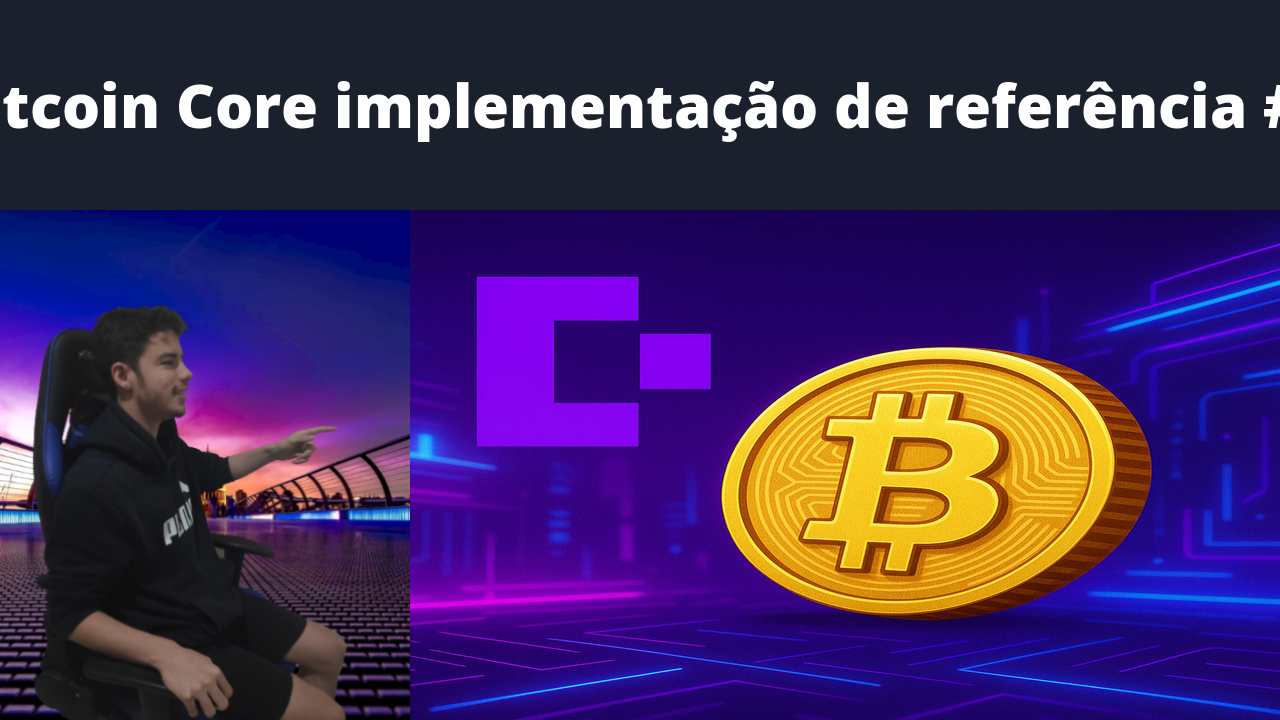
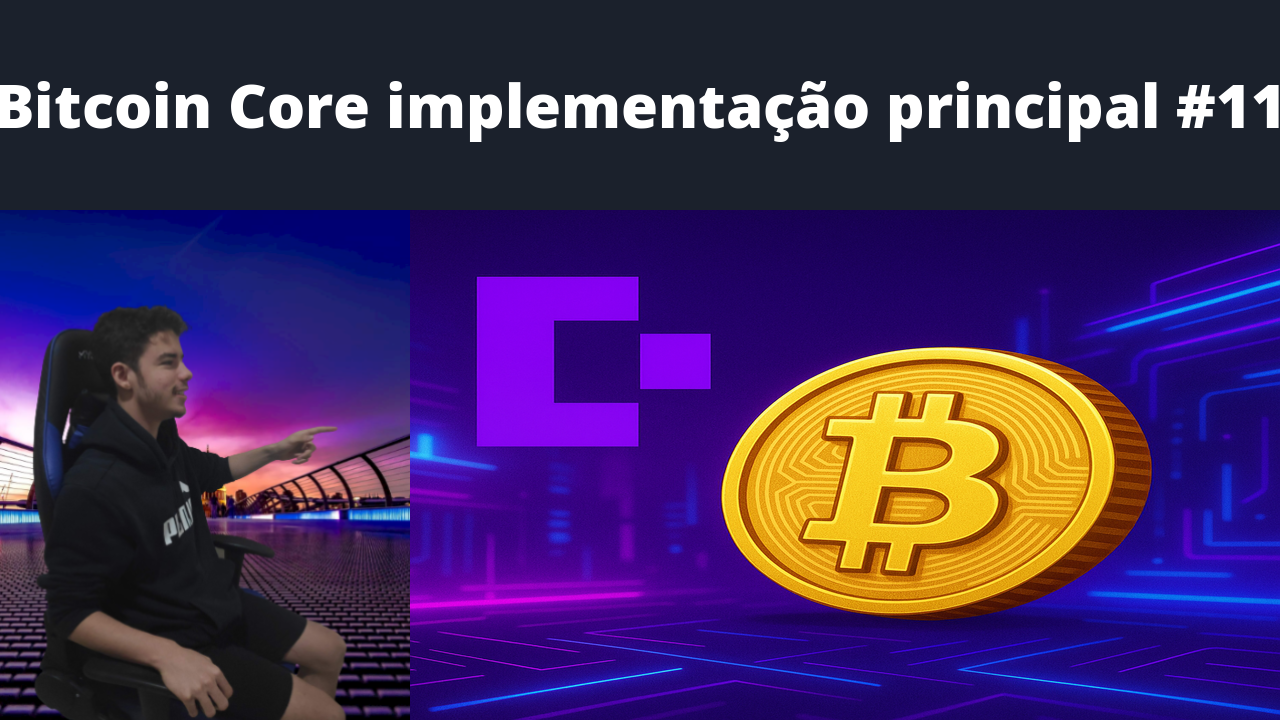
chore: add title docs: add last two custom titles

Changed region(s): [[0.0, 0.0917, 1.0, 0.2139]]

diff --git a/out/titles/Mastering Bitcoin.md b/out/titles/Mastering Bitcoin.md
@@ -1,6 +1,6 @@
 ===VIDEOSEARCH===
 https://youtube.googleapis.com/youtube/v3/search?part=snippet&forMine=true&maxResults=50&order=date&q=Mastering%20Bitcoin&type=video&pageToken=
-{ "kind": "youtube#searchListResponse", "etag": "SmARg9TOAgZzTfXPxly1naHR2_I", "pageInfo": { "totalResults": 11, "resultsPerPage": 50 }, "items": [ { "kind": "youtube#searchResult", "etag": "CKnAmYosQyrPlKAf-3r2torfKd0", "id": { "kind": "youtube#video", "videoId": "P7Z4iXNiw8Q" }, "snippet": { "publishedAt": "2025-06-07T23:26:08Z", "channelId": "UCgZB7eGBo6sKBwRfSzCQoJg", "title": "Bitcoin Core implementação de referência Mastering Bitcoin 11", "description": "", "thumbnails": { "default": { "url": "https://i.ytimg.com/vi/P7Z4iXNiw8Q/default.jpg", "width": 120, "height": 90 }, "medium": { "url": "https://i.ytimg.com/vi/P7Z4iXNiw8Q/mqdefault.jpg", "width": 320, "height": 180 }, "high": { "url": "https://i.ytimg.com/vi/P7Z4iXNiw8Q/hqdefault.jpg", "width": 480, "height": 360 }, "standard": { "url": "https://i.ytimg.com/vi/P7Z4iXNiw8Q/sddefault.jpg", "width": 640, "height": 480 }, "maxres": { "url": "https://i.ytimg.com/vi/P7Z4iXNiw8Q/maxresdefault.jpg", "width": 1280, "height": 720 } }, "channelTitle": "Juan Colchete", "liveBroadcastContent": "none", "publishTime": "2025-06-07T23:26:08Z" } }, { "kind": "youtube#searchResult", "etag": "8-lTL4OBUusZ7RiUi7DzM-z62KY", "id": { "kind": "youtube#video", "videoId": "5KXJZ-K2YFI" }, "snippet": { "publishedAt": "2025-06-07T23:26:02Z", "channelId": "UCgZB7eGBo6sKBwRfSzCQoJg", "title": "Porque a estrutura de rede não é hierárquica Mastering Bitcoin 10", "description": "", "thumbnails": { "default": { "url": "https://i.ytimg.com/vi/5KXJZ-K2YFI/default.jpg", "width": 120, "height": 90 }, "medium": { "url": "https://i.ytimg.com/vi/5KXJZ-K2YFI/mqdefault.jpg", "width": 320, "height": 180 }, "high": { "url": "https://i.ytimg.com/vi/5KXJZ-K2YFI/hqdefault.jpg", "width": 480, "height": 360 }, "standard": { "url": "https://i.ytimg.com/vi/5KXJZ-K2YFI/sddefault.jpg", "width": 640, "height": 480 }, "maxres": { "url": "https://i.ytimg.com/vi/5KXJZ-K2YFI/maxresdefault.jpg", "width": 1280, "height": 720 } }, "channelTitle": "Juan Colchete", "liveBroadcastContent": "none", "publishTime": "2025-06-07T23:26:02Z" } }, { "kind": "youtube#searchResult", "etag": "DV9dnH8LuYoWc30lZHcTtclQITU", "id": { "kind": "youtube#video", "videoId": "wZa4vgP9BQo" }, "snippet": { "publishedAt": "2025-06-07T23:25:57Z", "channelId": "UCgZB7eGBo6sKBwRfSzCQoJg", "title": "O que são entradas e saidas Mastering Bitcoin 9", "description": "", "thumbnails": { "default": { "url": "https://i.ytimg.com/vi/wZa4vgP9BQo/default.jpg", "width": 120, "height": 90 }, "medium": { "url": "https://i.ytimg.com/vi/wZa4vgP9BQo/mqdefault.jpg", "width": 320, "height": 180 }, "high": { "url": "https://i.ytimg.com/vi/wZa4vgP9BQo/hqdefault.jpg", "width": 480, "height": 360 }, "standard": { "url": "https://i.ytimg.com/vi/wZa4vgP9BQo/sddefault.jpg", "width": 640, "height": 480 }, "maxres": { "url": "https://i.ytimg.com/vi/wZa4vgP9BQo/maxresdefault.jpg", "width": 1280, "height": 720 } }, "channelTitle": "Juan Colchete", "liveBroadcastContent": "none", "publishTime": "2025-06-07T23:25:57Z" } }, { "kind": "youtube#searchResult", "etag": "8EyCIKflMnv-u9UtyaECKcNGg4U", "id": { "kind": "youtube#video", "videoId": "LziW22FFQ20" }, "snippet": { "publishedAt": "2025-06-07T23:25:51Z", "channelId": "UCgZB7eGBo6sKBwRfSzCQoJg", "title": "Transações são cadeias de assinaturas digitais Mastering Bitcoin 8", "description": "", "thumbnails": { "default": { "url": "https://i.ytimg.com/vi/LziW22FFQ20/default.jpg", "width": 120, "height": 90 }, "medium": { "url": "https://i.ytimg.com/vi/LziW22FFQ20/mqdefault.jpg", "width": 320, "height": 180 }, "high": { "url": "https://i.ytimg.com/vi/LziW22FFQ20/hqdefault.jpg", "width": 480, "height": 360 }, "standard": { "url": "https://i.ytimg.com/vi/LziW22FFQ20/sddefault.jpg", "width": 640, "height": 480 }, "maxres": { "url": "https://i.ytimg.com/vi/LziW22FFQ20/maxresdefault.jpg", "width": 1280, "height": 720 } }, "channelTitle": "Juan Colchete", "liveBroadcastContent": "none", "publishTime": "2025-06-07T23:25:51Z" } }, { "kind": "youtube#searchResult", "etag": "o_1lWEKDAl5CLQRe_BwCovz1e40", "id": { "kind": "youtube#video", "videoId": "mgc4KJ8klUM" }, "snippet": { "publishedAt": "2025-06-07T23:25:42Z", "channelId": "UCgZB7eGBo6sKBwRfSzCQoJg", "title": "Prova de trabalho agulha no palheiro Mastering Bitcoin 7", "description": "", "thumbnails": { "default": { "url": "https://i.ytimg.com/vi/mgc4KJ8klUM/default.jpg", "width": 120, "height": 90 }, "medium": { "url": "https://i.ytimg.com/vi/mgc4KJ8klUM/mqdefault.jpg", "width": 320, "height": 180 }, "high": { "url": "https://i.ytimg.com/vi/mgc4KJ8klUM/hqdefault.jpg", "width": 480, "height": 360 }, "standard": { "url": "https://i.ytimg.com/vi/mgc4KJ8klUM/sddefault.jpg", "width": 640, "height": 480 }, "maxres": { "url": "https://i.ytimg.com/vi/mgc4KJ8klUM/maxresdefault.jpg", "width": 1280, "height": 720 } }, "channelTitle": "Juan Colchete", "liveBroadcastContent": "none", "publishTime": "2025-06-07T23:25:42Z" } }, { "kind": "youtube#searchResult", "etag": "ezS5CRo9pug31mROp4GDKKlEeII", "id": { "kind": "youtube#video", "videoId": "CA7iN-ebHMk" }, "snippet": { "publishedAt": "2025-06-07T20:57:01Z", "channelId": "UCgZB7eGBo6sKBwRfSzCQoJg", "title": "O que é gasto duplo e como o bitcoin resolve Mastering Bitcoin 6", "description": "", "thumbnails": { "default": { "url": "https://i.ytimg.com/vi/CA7iN-ebHMk/default.jpg", "width": 120, "height": 90 }, "medium": { "url": "https://i.ytimg.com/vi/CA7iN-ebHMk/mqdefault.jpg", "width": 320, "height": 180 }, "high": { "url": "https://i.ytimg.com/vi/CA7iN-ebHMk/hqdefault.jpg", "width": 480, "height": 360 }, "standard": { "url": "https://i.ytimg.com/vi/CA7iN-ebHMk/sddefault.jpg", "width": 640, "height": 480 }, "maxres": { "url": "https://i.ytimg.com/vi/CA7iN-ebHMk/maxresdefault.jpg", "width": 1280, "height": 720 } }, "channelTitle": "Juan Colchete", "liveBroadcastContent": "none", "publishTime": "2025-06-07T20:57:01Z" } }, { "kind": "youtube#searchResult", "etag": "GHJ2E-hIBF4X0q8IvaZ80u0fWlQ", "id": { "kind": "youtube#video", "videoId": "0aEdpuCC_uY" }, "snippet": { "publishedAt": "2025-05-03T21:10:24Z", "channelId": "UCgZB7eGBo6sKBwRfSzCQoJg", "title": "Transações reversíveis Mastering Bitcoin 3", "description": "", "thumbnails": { "default": { "url": "https://i.ytimg.com/vi/0aEdpuCC_uY/default.jpg", "width": 120, "height": 90 }, "medium": { "url": "https://i.ytimg.com/vi/0aEdpuCC_uY/mqdefault.jpg", "width": 320, "height": 180 }, "high": { "url": "https://i.ytimg.com/vi/0aEdpuCC_uY/hqdefault.jpg", "width": 480, "height": 360 }, "standard": { "url": "https://i.ytimg.com/vi/0aEdpuCC_uY/sddefault.jpg", "width": 640, "height": 480 }, "maxres": { "url": "https://i.ytimg.com/vi/0aEdpuCC_uY/maxresdefault.jpg", "width": 1280, "height": 720 } }, "channelTitle": "Juan Colchete", "liveBroadcastContent": "none", "publishTime": "2025-05-03T21:10:24Z" } }, { "kind": "youtube#searchResult", "etag": "NQDfTZDZAs-MMpaavxb3BRhLZho", "id": { "kind": "youtube#video", "videoId": "durjTh544jo" }, "snippet": { "publishedAt": "2025-05-03T21:10:09Z", "channelId": "UCgZB7eGBo6sKBwRfSzCQoJg", "title": "O que determina a taxa de inflação do Bitcoin Mastering Bitcoin 5", "description": "", "thumbnails": { "default": { "url": "https://i.ytimg.com/vi/durjTh544jo/default.jpg", "width": 120, "height": 90 }, "medium": { "url": "https://i.ytimg.com/vi/durjTh544jo/mqdefault.jpg", "width": 320, "height": 180 }, "high": { "url": "https://i.ytimg.com/vi/durjTh544jo/hqdefault.jpg", "width": 480, "height": 360 }, "standard": { "url": "https://i.ytimg.com/vi/durjTh544jo/sddefault.jpg", "width": 640, "height": 480 }, "maxres": { "url": "https://i.ytimg.com/vi/durjTh544jo/maxresdefault.jpg", "width": 1280, "height": 720 } }, "channelTitle": "Juan Colchete", "liveBroadcastContent": "none", "publishTime": "2025-05-03T21:10:09Z" } }, { "kind": "youtube#searchResult", "etag": "Qg1vYp_FgAVtvimn916lJ_Wpzno", "id": { "kind": "youtube#video", "videoId": "mn3tkvu8g0s" }, "snippet": { "publishedAt": "2025-05-03T21:09:52Z", "channelId": "UCgZB7eGBo6sKBwRfSzCQoJg", "title": "Porque a taxa de transação é necessária? Mastering Bitcoin 4", "description": "", "thumbnails": { "default": { "url": "https://i.ytimg.com/vi/mn3tkvu8g0s/default.jpg", "width": 120, "height": 90 }, "medium": { "url": "https://i.ytimg.com/vi/mn3tkvu8g0s/mqdefault.jpg", "width": 320, "height": 180 }, "high": { "url": "https://i.ytimg.com/vi/mn3tkvu8g0s/hqdefault.jpg", "width": 480, "height": 360 }, "standard": { "url": "https://i.ytimg.com/vi/mn3tkvu8g0s/sddefault.jpg", "width": 640, "height": 480 }, "maxres": { "url": "https://i.ytimg.com/vi/mn3tkvu8g0s/maxresdefault.jpg", "width": 1280, "height": 720 } }, "channelTitle": "Juan Colchete", "liveBroadcastContent": "none", "publishTime": "2025-05-03T21:09:52Z" } }, { "kind": "youtube#searchResult", "etag": "wkb4Ac3zapWgkfC3JqW_CMD3M0w", "id": { "kind": "youtube#video", "videoId": "Hujt0gZ1c68" }, "snippet": { "publishedAt": "2025-05-03T21:09:39Z", "channelId": "UCgZB7eGBo6sKBwRfSzCQoJg", "title": "O que é UTXO ? Mastering Bitcoin 2", "description": "", "thumbnails": { "default": { "url": "https://i.ytimg.com/vi/Hujt0gZ1c68/default.jpg", "width": 120, "height": 90 }, "medium": { "url": "https://i.ytimg.com/vi/Hujt0gZ1c68/mqdefault.jpg", "width": 320, "height": 180 }, "high": { "url": "https://i.ytimg.com/vi/Hujt0gZ1c68/hqdefault.jpg", "width": 480, "height": 360 }, "standard": { "url": "https://i.ytimg.com/vi/Hujt0gZ1c68/sddefault.jpg", "width": 640, "height": 480 }, "maxres": { "url": "https://i.ytimg.com/vi/Hujt0gZ1c68/maxresdefault.jpg", "width": 1280, "height": 720 } }, "channelTitle": "Juan Colchete", "liveBroadcastContent": "none", "publishTime": "2025-05-03T21:09:39Z" } }, { "kind": "youtube#searchResult", "etag": "s0F28X8jib5WyWrcPFOAuQj_ABo", "id": { "kind": "youtube#video", "videoId": "qDoZElkVCCY" }, "snippet": { "publishedAt": "2025-05-03T21:09:17Z", "channelId": "UCgZB7eGBo6sKBwRfSzCQoJg", "title": "Como bitcoin resolve o problema das moedas digitais Mastering Bitcoin 1", "description": "", "thumbnails": { "default": { "url": "https://i.ytimg.com/vi/qDoZElkVCCY/default.jpg", "width": 120, "height": 90 }, "medium": { "url": "https://i.ytimg.com/vi/qDoZElkVCCY/mqdefault.jpg", "width": 320, "height": 180 }, "high": { "url": "https://i.ytimg.com/vi/qDoZElkVCCY/hqdefault.jpg", "width": 480, "height": 360 }, "standard": { "url": "https://i.ytimg.com/vi/qDoZElkVCCY/sddefault.jpg", "width": 640, "height": 480 }, "maxres": { "url": "https://i.ytimg.com/vi/qDoZElkVCCY/maxresdefault.jpg", "width": 1280, "height": 720 } }, "channelTitle": "Juan Colchete", "liveBroadcastContent": "none", "publishTime": "2025-05-03T21:09:17Z" } } ] }
+{ "kind": "youtube#searchListResponse", "etag": "XbJqpDe0ZeU8Ed-XWAc2IsWij6o", "pageInfo": { "totalResults": 11, "resultsPerPage": 50 }, "items": [ { "kind": "youtube#searchResult", "etag": "Xa1eOYdicn-oIZnBDsZi2XQIlxE", "id": { "kind": "youtube#video", "videoId": "P7Z4iXNiw8Q" }, "snippet": { "publishedAt": "2025-06-07T23:26:08Z", "channelId": "UCgZB7eGBo6sKBwRfSzCQoJg", "title": "Bitcoin Core implementação de referência Mastering Bitcoin 11", "description": "", "thumbnails": { "default": { "url": "https://i.ytimg.com/vi/P7Z4iXNiw8Q/default.jpg", "width": 120, "height": 90 }, "medium": { "url": "https://i.ytimg.com/vi/P7Z4iXNiw8Q/mqdefault.jpg", "width": 320, "height": 180 }, "high": { "url": "https://i.ytimg.com/vi/P7Z4iXNiw8Q/hqdefault.jpg", "width": 480, "height": 360 }, "standard": { "url": "https://i.ytimg.com/vi/P7Z4iXNiw8Q/sddefault.jpg", "width": 640, "height": 480 }, "maxres": { "url": "https://i.ytimg.com/vi/P7Z4iXNiw8Q/maxresdefault.jpg", "width": 1280, "height": 720 } }, "channelTitle": "Juan Colchete", "liveBroadcastContent": "none", "publishTime": "2025-06-07T23:26:08Z" } }, { "kind": "youtube#searchResult", "etag": "RenK2MQkQBuHFQM-GmDGjPsdc88", "id": { "kind": "youtube#video", "videoId": "5KXJZ-K2YFI" }, "snippet": { "publishedAt": "2025-06-07T23:26:02Z", "channelId": "UCgZB7eGBo6sKBwRfSzCQoJg", "title": "Porque a estrutura de rede não é hierárquica Mastering Bitcoin 10", "description": "", "thumbnails": { "default": { "url": "https://i.ytimg.com/vi/5KXJZ-K2YFI/default.jpg", "width": 120, "height": 90 }, "medium": { "url": "https://i.ytimg.com/vi/5KXJZ-K2YFI/mqdefault.jpg", "width": 320, "height": 180 }, "high": { "url": "https://i.ytimg.com/vi/5KXJZ-K2YFI/hqdefault.jpg", "width": 480, "height": 360 }, "standard": { "url": "https://i.ytimg.com/vi/5KXJZ-K2YFI/sddefault.jpg", "width": 640, "height": 480 }, "maxres": { "url": "https://i.ytimg.com/vi/5KXJZ-K2YFI/maxresdefault.jpg", "width": 1280, "height": 720 } }, "channelTitle": "Juan Colchete", "liveBroadcastContent": "none", "publishTime": "2025-06-07T23:26:02Z" } }, { "kind": "youtube#searchResult", "etag": "DV9dnH8LuYoWc30lZHcTtclQITU", "id": { "kind": "youtube#video", "videoId": "wZa4vgP9BQo" }, "snippet": { "publishedAt": "2025-06-07T23:25:57Z", "channelId": "UCgZB7eGBo6sKBwRfSzCQoJg", "title": "O que são entradas e saidas Mastering Bitcoin 9", "description": "", "thumbnails": { "default": { "url": "https://i.ytimg.com/vi/wZa4vgP9BQo/default.jpg", "width": 120, "height": 90 }, "medium": { "url": "https://i.ytimg.com/vi/wZa4vgP9BQo/mqdefault.jpg", "width": 320, "height": 180 }, "high": { "url": "https://i.ytimg.com/vi/wZa4vgP9BQo/hqdefault.jpg", "width": 480, "height": 360 }, "standard": { "url": "https://i.ytimg.com/vi/wZa4vgP9BQo/sddefault.jpg", "width": 640, "height": 480 }, "maxres": { "url": "https://i.ytimg.com/vi/wZa4vgP9BQo/maxresdefault.jpg", "width": 1280, "height": 720 } }, "channelTitle": "Juan Colchete", "liveBroadcastContent": "none", "publishTime": "2025-06-07T23:25:57Z" } }, { "kind": "youtube#searchResult", "etag": "tSGEvolmT27JoPzX0US3msYcYwA", "id": { "kind": "youtube#video", "videoId": "LziW22FFQ20" }, "snippet": { "publishedAt": "2025-06-07T23:25:51Z", "channelId": "UCgZB7eGBo6sKBwRfSzCQoJg", "title": "Transações são cadeias de assinaturas digitais Mastering Bitcoin 8", "description": "", "thumbnails": { "default": { "url": "https://i.ytimg.com/vi/LziW22FFQ20/default.jpg", "width": 120, "height": 90 }, "medium": { "url": "https://i.ytimg.com/vi/LziW22FFQ20/mqdefault.jpg", "width": 320, "height": 180 }, "high": { "url": "https://i.ytimg.com/vi/LziW22FFQ20/hqdefault.jpg", "width": 480, "height": 360 }, "standard": { "url": "https://i.ytimg.com/vi/LziW22FFQ20/sddefault.jpg", "width": 640, "height": 480 }, "maxres": { "url": "https://i.ytimg.com/vi/LziW22FFQ20/maxresdefault.jpg", "width": 1280, "height": 720 } }, "channelTitle": "Juan Colchete", "liveBroadcastContent": "none", "publishTime": "2025-06-07T23:25:51Z" } }, { "kind": "youtube#searchResult", "etag": "o_1lWEKDAl5CLQRe_BwCovz1e40", "id": { "kind": "youtube#video", "videoId": "mgc4KJ8klUM" }, "snippet": { "publishedAt": "2025-06-07T23:25:42Z", "channelId": "UCgZB7eGBo6sKBwRfSzCQoJg", "title": "Prova de trabalho agulha no palheiro Mastering Bitcoin 7", "description": "", "thumbnails": { "default": { "url": "https://i.ytimg.com/vi/mgc4KJ8klUM/default.jpg", "width": 120, "height": 90 }, "medium": { "url": "https://i.ytimg.com/vi/mgc4KJ8klUM/mqdefault.jpg", "width": 320, "height": 180 }, "high": { "url": "https://i.ytimg.com/vi/mgc4KJ8klUM/hqdefault.jpg", "width": 480, "height": 360 }, "standard": { "url": "https://i.ytimg.com/vi/mgc4KJ8klUM/sddefault.jpg", "width": 640, "height": 480 }, "maxres": { "url": "https://i.ytimg.com/vi/mgc4KJ8klUM/maxresdefault.jpg", "width": 1280, "height": 720 } }, "channelTitle": "Juan Colchete", "liveBroadcastContent": "none", "publishTime": "2025-06-07T23:25:42Z" } }, { "kind": "youtube#searchResult", "etag": "ezS5CRo9pug31mROp4GDKKlEeII", "id": { "kind": "youtube#video", "videoId": "CA7iN-ebHMk" }, "snippet": { "publishedAt": "2025-06-07T20:57:01Z", "channelId": "UCgZB7eGBo6sKBwRfSzCQoJg", "title": "O que é gasto duplo e como o bitcoin resolve Mastering Bitcoin 6", "description": "", "thumbnails": { "default": { "url": "https://i.ytimg.com/vi/CA7iN-ebHMk/default.jpg", "width": 120, "height": 90 }, "medium": { "url": "https://i.ytimg.com/vi/CA7iN-ebHMk/mqdefault.jpg", "width": 320, "height": 180 }, "high": { "url": "https://i.ytimg.com/vi/CA7iN-ebHMk/hqdefault.jpg", "width": 480, "height": 360 }, "standard": { "url": "https://i.ytimg.com/vi/CA7iN-ebHMk/sddefault.jpg", "width": 640, "height": 480 }, "maxres": { "url": "https://i.ytimg.com/vi/CA7iN-ebHMk/maxresdefault.jpg", "width": 1280, "height": 720 } }, "channelTitle": "Juan Colchete", "liveBroadcastContent": "none", "publishTime": "2025-06-07T20:57:01Z" } }, { "kind": "youtube#searchResult", "etag": "7bqA86TOgJ1l_otoii4GXNyO_hA", "id": { "kind": "youtube#video", "videoId": "0aEdpuCC_uY" }, "snippet": { "publishedAt": "2025-05-03T21:10:24Z", "channelId": "UCgZB7eGBo6sKBwRfSzCQoJg", "title": "Transações reversíveis Mastering Bitcoin 3", "description": "", "thumbnails": { "default": { "url": "https://i.ytimg.com/vi/0aEdpuCC_uY/default.jpg", "width": 120, "height": 90 }, "medium": { "url": "https://i.ytimg.com/vi/0aEdpuCC_uY/mqdefault.jpg", "width": 320, "height": 180 }, "high": { "url": "https://i.ytimg.com/vi/0aEdpuCC_uY/hqdefault.jpg", "width": 480, "height": 360 }, "standard": { "url": "https://i.ytimg.com/vi/0aEdpuCC_uY/sddefault.jpg", "width": 640, "height": 480 }, "maxres": { "url": "https://i.ytimg.com/vi/0aEdpuCC_uY/maxresdefault.jpg", "width": 1280, "height": 720 } }, "channelTitle": "Juan Colchete", "liveBroadcastContent": "none", "publishTime": "2025-05-03T21:10:24Z" } }, { "kind": "youtube#searchResult", "etag": "NQDfTZDZAs-MMpaavxb3BRhLZho", "id": { "kind": "youtube#video", "videoId": "durjTh544jo" }, "snippet": { "publishedAt": "2025-05-03T21:10:09Z", "channelId": "UCgZB7eGBo6sKBwRfSzCQoJg", "title": "O que determina a taxa de inflação do Bitcoin Mastering Bitcoin 5", "description": "", "thumbnails": { "default": { "url": "https://i.ytimg.com/vi/durjTh544jo/default.jpg", "width": 120, "height": 90 }, "medium": { "url": "https://i.ytimg.com/vi/durjTh544jo/mqdefault.jpg", "width": 320, "height": 180 }, "high": { "url": "https://i.ytimg.com/vi/durjTh544jo/hqdefault.jpg", "width": 480, "height": 360 }, "standard": { "url": "https://i.ytimg.com/vi/durjTh544jo/sddefault.jpg", "width": 640, "height": 480 }, "maxres": { "url": "https://i.ytimg.com/vi/durjTh544jo/maxresdefault.jpg", "width": 1280, "height": 720 } }, "channelTitle": "Juan Colchete", "liveBroadcastContent": "none", "publishTime": "2025-05-03T21:10:09Z" } }, { "kind": "youtube#searchResult", "etag": "d0VvMYMuPJux00AMUtd_pp9xE9A", "id": { "kind": "youtube#video", "videoId": "mn3tkvu8g0s" }, "snippet": { "publishedAt": "2025-05-03T21:09:52Z", "channelId": "UCgZB7eGBo6sKBwRfSzCQoJg", "title": "Porque a taxa de transação é necessária? Mastering Bitcoin 4", "description": "", "thumbnails": { "default": { "url": "https://i.ytimg.com/vi/mn3tkvu8g0s/default.jpg", "width": 120, "height": 90 }, "medium": { "url": "https://i.ytimg.com/vi/mn3tkvu8g0s/mqdefault.jpg", "width": 320, "height": 180 }, "high": { "url": "https://i.ytimg.com/vi/mn3tkvu8g0s/hqdefault.jpg", "width": 480, "height": 360 }, "standard": { "url": "https://i.ytimg.com/vi/mn3tkvu8g0s/sddefault.jpg", "width": 640, "height": 480 }, "maxres": { "url": "https://i.ytimg.com/vi/mn3tkvu8g0s/maxresdefault.jpg", "width": 1280, "height": 720 } }, "channelTitle": "Juan Colchete", "liveBroadcastContent": "none", "publishTime": "2025-05-03T21:09:52Z" } }, { "kind": "youtube#searchResult", "etag": "wkb4Ac3zapWgkfC3JqW_CMD3M0w", "id": { "kind": "youtube#video", "videoId": "Hujt0gZ1c68" }, "snippet": { "publishedAt": "2025-05-03T21:09:39Z", "channelId": "UCgZB7eGBo6sKBwRfSzCQoJg", "title": "O que é UTXO ? Mastering Bitcoin 2", "description": "", "thumbnails": { "default": { "url": "https://i.ytimg.com/vi/Hujt0gZ1c68/default.jpg", "width": 120, "height": 90 }, "medium": { "url": "https://i.ytimg.com/vi/Hujt0gZ1c68/mqdefault.jpg", "width": 320, "height": 180 }, "high": { "url": "https://i.ytimg.com/vi/Hujt0gZ1c68/hqdefault.jpg", "width": 480, "height": 360 }, "standard": { "url": "https://i.ytimg.com/vi/Hujt0gZ1c68/sddefault.jpg", "width": 640, "height": 480 }, "maxres": { "url": "https://i.ytimg.com/vi/Hujt0gZ1c68/maxresdefault.jpg", "width": 1280, "height": 720 } }, "channelTitle": "Juan Colchete", "liveBroadcastContent": "none", "publishTime": "2025-05-03T21:09:39Z" } }, { "kind": "youtube#searchResult", "etag": "s0F28X8jib5WyWrcPFOAuQj_ABo", "id": { "kind": "youtube#video", "videoId": "qDoZElkVCCY" }, "snippet": { "publishedAt": "2025-05-03T21:09:17Z", "channelId": "UCgZB7eGBo6sKBwRfSzCQoJg", "title": "Como bitcoin resolve o problema das moedas digitais Mastering Bitcoin 1", "description": "", "thumbnails": { "default": { "url": "https://i.ytimg.com/vi/qDoZElkVCCY/default.jpg", "width": 120, "height": 90 }, "medium": { "url": "https://i.ytimg.com/vi/qDoZElkVCCY/mqdefault.jpg", "width": 320, "height": 180 }, "high": { "url": "https://i.ytimg.com/vi/qDoZElkVCCY/hqdefault.jpg", "width": 480, "height": 360 }, "standard": { "url": "https://i.ytimg.com/vi/qDoZElkVCCY/sddefault.jpg", "width": 640, "height": 480 }, "maxres": { "url": "https://i.ytimg.com/vi/qDoZElkVCCY/maxresdefault.jpg", "width": 1280, "height": 720 } }, "channelTitle": "Juan Colchete", "liveBroadcastContent": "none", "publishTime": "2025-05-03T21:09:17Z" } } ] }
 ===VIDEOSEARCH===
 ===SERIES NUMBER===
 11
